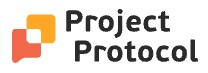
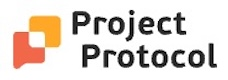
fix footer, fix the partner module

diff --git a/src/components/Footer/Footer.module.scss b/src/components/Footer/Footer.module.scss
@@ -1,13 +1,14 @@
-@import "../../styles/abstracts/mixins";
+@import "abstracts/mixins";
 
 .root {
-  margin: var(--sp-loosest);
+  margin-top: var(--sp-loosest);
+  margin-bottom: var(--sp-loosest);
   border-top: 1px solid var(--gray-500);
   padding-top: var(--sp-loosest);
-  text-align: center;
   @media (max-width: 51.5rem) {
     //TODO: use base styles
     margin: var(--sp-tight);
+    text-align: center;
   }
 }
 
@@ -27,8 +28,6 @@
   max-width: var(--bp-lg);
   margin-top: var(--sp-tight);
   margin-bottom: var(--sp-tight);
-  margin-left: auto;
-  margin-right: auto;
 }
 
 .nav {

diff --git a/src/components/PartnersModule/index.tsx b/src/components/PartnersModule/index.tsx
@@ -41,7 +41,12 @@ export async function PartnersModule({
               alt={logo.name.replace("featured_", "")}
               width={130}
               height={80} // placeholder height, fixed later
-              style={{ height: "auto" }}
+              style={{
+                height: "auto",
+                width: "auto",
+                maxHeight: "80px",
+                maxWidth: "130px",
+              }}
             />
           </div>
         ))}

diff --git a/src/components/PartnersModule/partnersmod.module.scss b/src/components/PartnersModule/partnersmod.module.scss
@@ -9,9 +9,11 @@
 }
 
 .logoCard {
-  display: inline-flex;
-  padding: 0.5rem;
-  background-color: white;
+  position: relative; // REQUIRED for the child's `fill` prop
+  width: 130px;
+  height: 80px;
+  box-sizing: border-box; // Ensure padding doesn't increase the card size
+
+  // Visual styling
   border-radius: var(--border-radius);
-  box-shadow: 0 1px 3px rgba(0, 0, 0, 0.05);
 }
